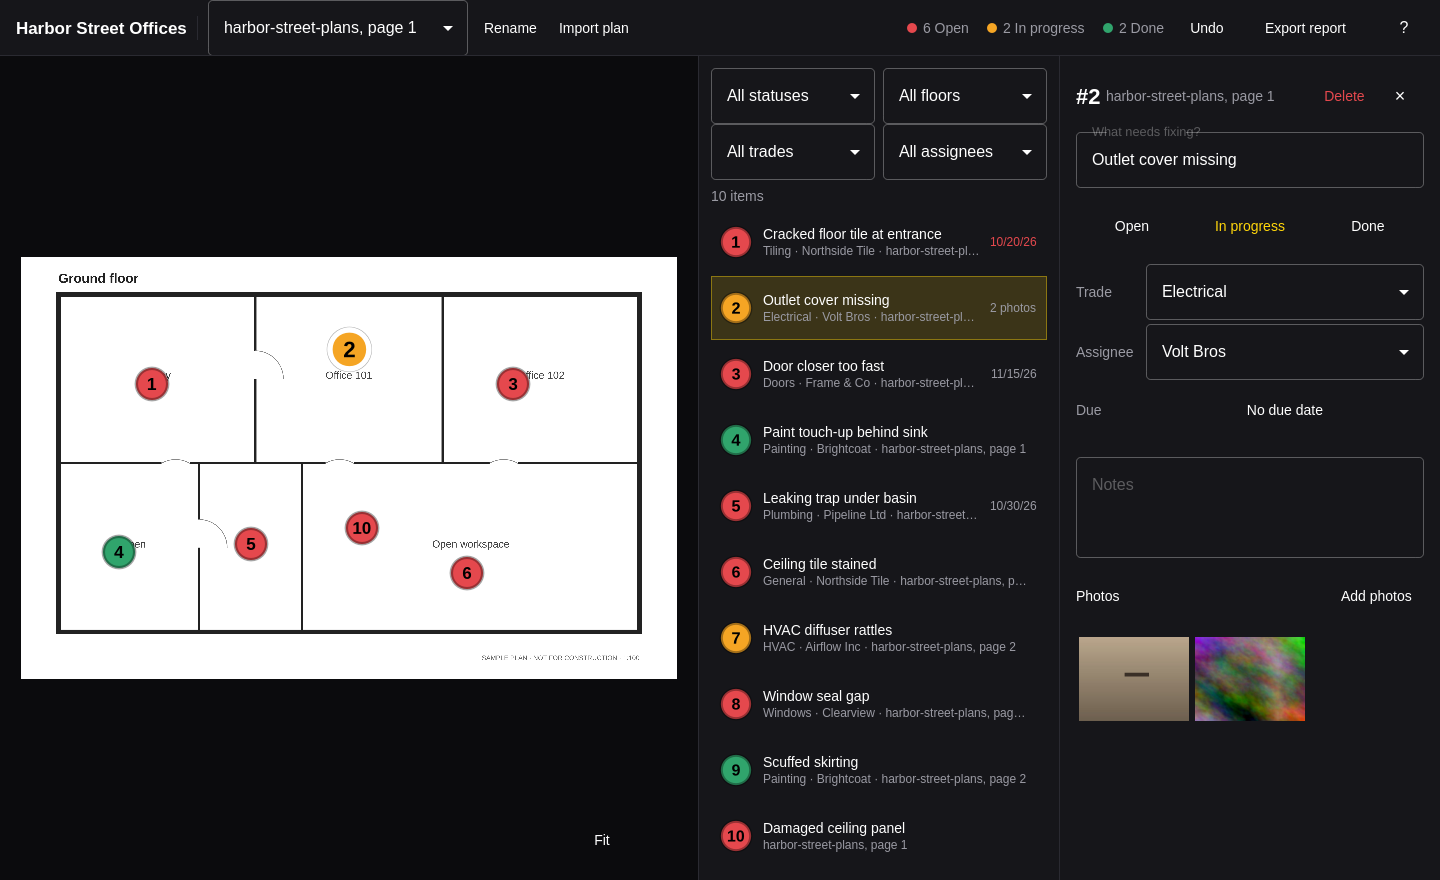
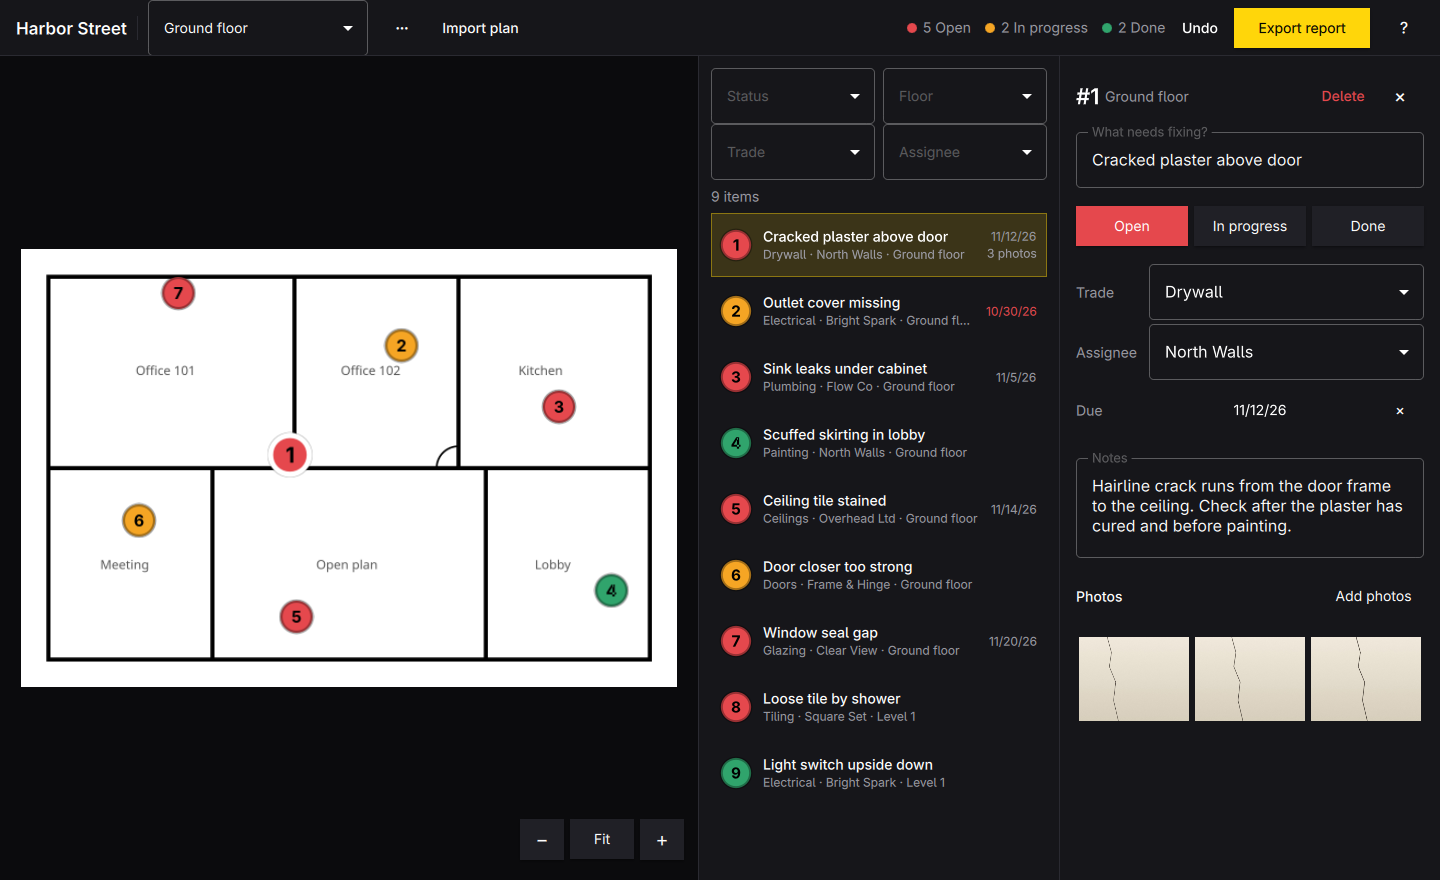
Show the current window in the README and list what's new

diff --git a/README.md b/README.md
@@ -5,7 +5,7 @@ plan, click where something needs fixing, and track each item from open to
 done. When the job is finished, export a closeout report: the item table, every
 plan with its pins, and the photos.
 
-![Corbel with a two-floor office plan, its punch list, and an item open](docs/screenshot.png)
+![Corbel with an office floor plan, its punch list, and an item open with notes and photos](docs/screenshot.png)
 
 - **Pin defects on the plan.** Import a PDF (every page becomes a floor) or an
   image, then click to drop a numbered pin. Drag pins to move them.
@@ -13,15 +13,22 @@ plan with its pins, and the photos.
   status of open, in progress, or done. Pins are colored by status.
 - **Filter the list** by status, trade, assignee, or floor. Selecting an item
   in the list selects it on the plan, and the other way round.
-- **Export the closeout report** as a PDF. With a filter set, the report holds
-  just those items and their floors, ready to send to one trade or one person.
-- **Manage floors.** Rename or delete a floor; deleting one, importing one, and
-  renaming one can all be undone.
+- **Export the closeout report** as a PDF: the item table with each item's
+  notes and overdue dates in red, every plan with its pins, the photos, and
+  numbered pages. With a filter set, the report holds just those items and
+  their floors, ready to send to one trade or one person.
+- **Manage floors.** Rename or delete a floor from the ⋯ menu beside the floor
+  picker; deleting one, importing one, and renaming one can all be undone.
+- **Big projects stay quick.** A set of drawings renders on every core, and
+  imports, photos, and reports are worked on in the background while the
+  window stays usable.
 - **One file per project.** A `.corbel` file is a SQLite database holding the
   plans, items, and photos, so it can be copied or backed up whole. The plans
   and photos you import are never changed.
 
-Corbel follows the Omarchy theme and language as they change.
+Corbel follows the Omarchy theme and language as they change. It speaks
+English, Danish, German, Spanish, French, and Hebrew, which mirrors the window
+right to left.
 
 ## Keyboard
 
